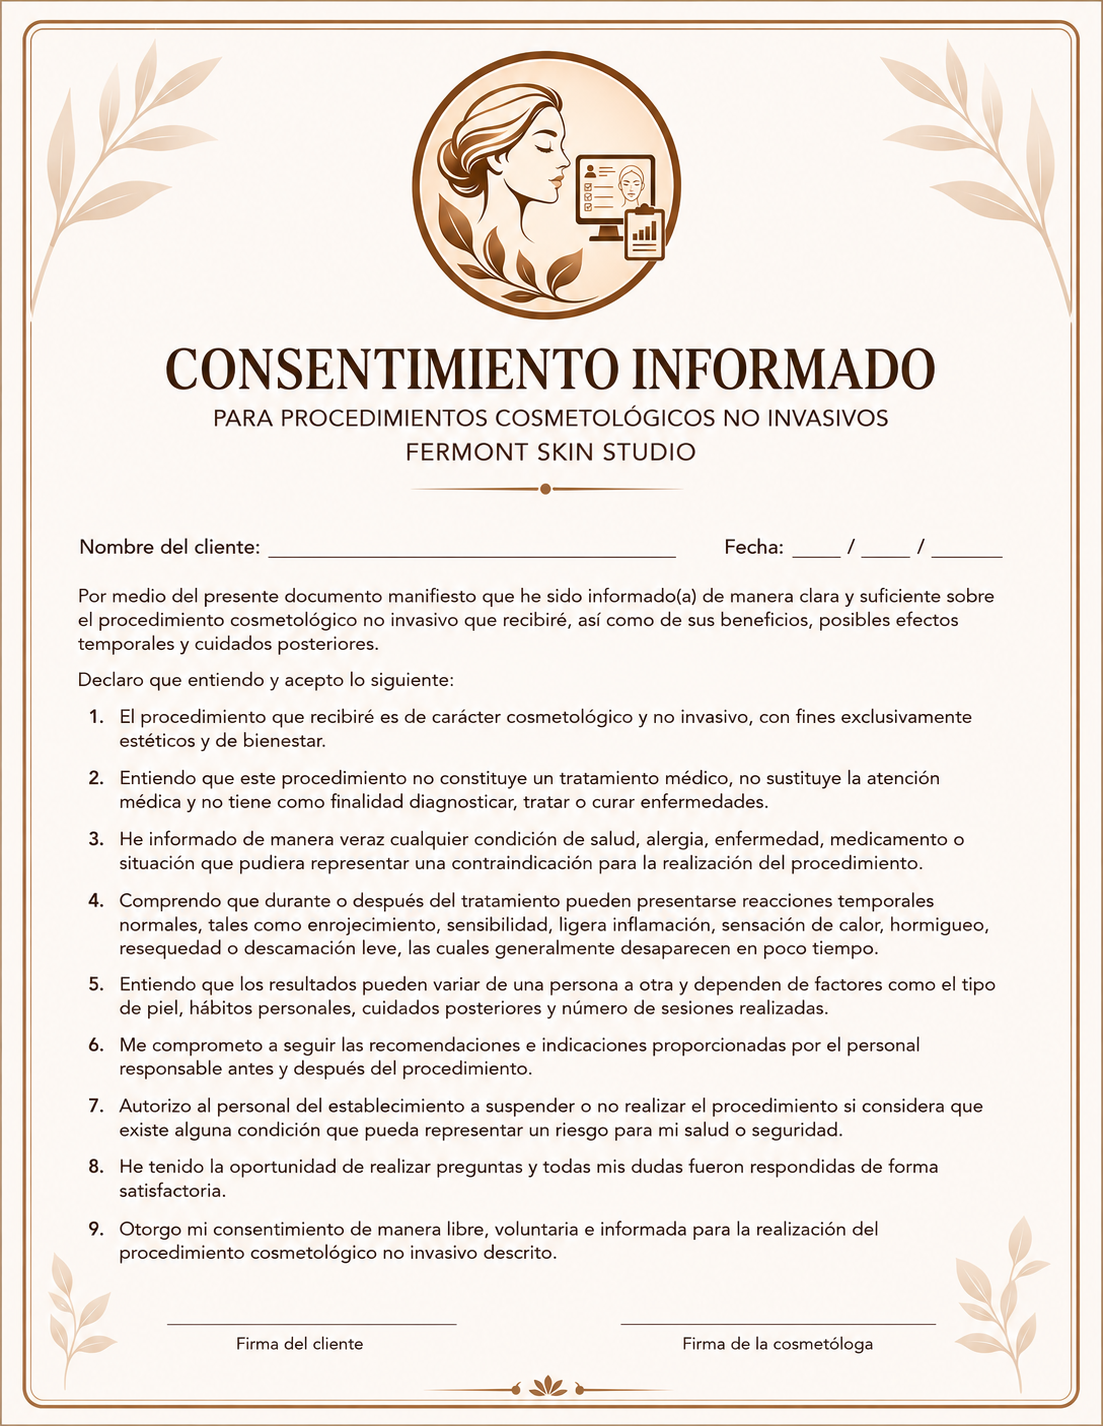
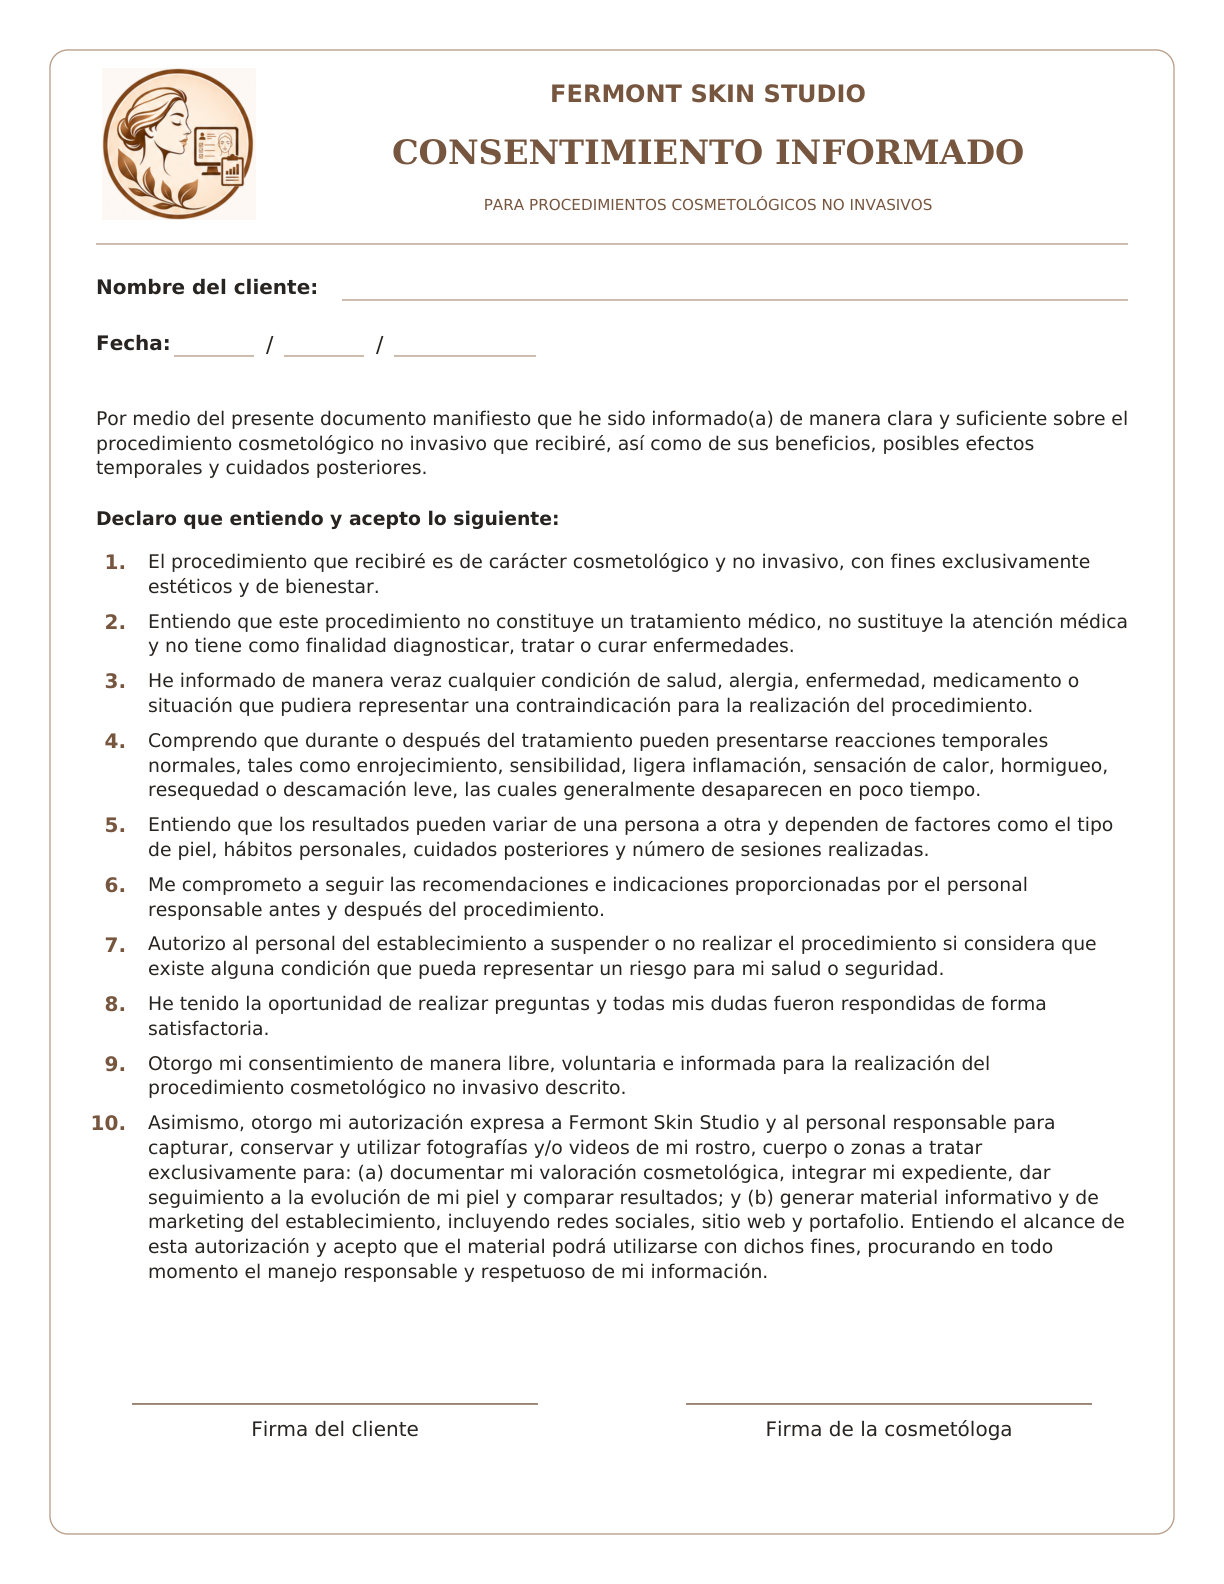
consentimiento 2

Changed region(s): [[0.0, 0.0, 1.0, 1.0]]

diff --git a/src/publicSite/components/PreRegistrationQuestionnaire.jsx b/src/publicSite/components/PreRegistrationQuestionnaire.jsx
@@ -1,5 +1,10 @@
 import { useEffect, useMemo, useRef, useState } from 'react'
 import {
+  CONSENT_CLAUSES,
+  CONSENT_DECLARATION,
+  CONSENT_INTRO,
+} from '../../constants/consent.js'
+import {
   STEP_EIGHT_OPTIONS,
   STEP_FOUR_OPTIONS,
   STEP_SEVEN_OPTIONS,
@@ -1190,50 +1195,10 @@ function PreRegistrationQuestionnaire({ client, error, isSaving, onCancel, onSub
           </div>
         </dl>
 
-        <p>
-          Por medio del presente documento manifiesto que he sido informado(a) de manera clara y suficiente
-          sobre el procedimiento cosmetológico no invasivo que recibiré, así como de sus beneficios, posibles
-          efectos temporales y cuidados posteriores.
-        </p>
-        <p>Declaro que entiendo y acepto lo siguiente:</p>
+        <p>{CONSENT_INTRO}</p>
+        <p><strong>{CONSENT_DECLARATION}</strong></p>
         <ol>
-          <li>
-            El procedimiento que recibiré es de carácter cosmetológico y no invasivo, con fines exclusivamente
-            estéticos y de bienestar.
-          </li>
-          <li>
-            Entiendo que este procedimiento no constituye un tratamiento médico, no sustituye la atención médica
-            y no tiene como finalidad diagnosticar, tratar o curar enfermedades.
-          </li>
-          <li>
-            He informado de manera veraz cualquier condición de salud, alergia, enfermedad, medicamento o
-            situación que pudiera representar una contraindicación para la realización del procedimiento.
-          </li>
-          <li>
-            Comprendo que durante o después del tratamiento pueden presentarse reacciones temporales normales,
-            tales como enrojecimiento, sensibilidad, ligera inflamación, sensación de calor, hormigueo, resequedad
-            o descamación leve, las cuales generalmente desaparecen en poco tiempo.
-          </li>
-          <li>
-            Entiendo que los resultados pueden variar de una persona a otra y dependen de factores como el tipo
-            de piel, hábitos personales, cuidados posteriores y número de sesiones realizadas.
-          </li>
-          <li>
-            Me comprometo a seguir las recomendaciones e indicaciones proporcionadas por el personal responsable
-            antes y después del procedimiento.
-          </li>
-          <li>
-            Autorizo al personal del establecimiento a suspender o no realizar el procedimiento si considera que
-            existe alguna condición que pueda representar un riesgo para mi salud o seguridad.
-          </li>
-          <li>
-            He tenido la oportunidad de realizar preguntas y todas mis dudas fueron respondidas de forma
-            satisfactoria.
-          </li>
-          <li>
-            Otorgo mi consentimiento de manera libre, voluntaria e informada para la realización del procedimiento
-            cosmetológico no invasivo descrito.
-          </li>
+          {CONSENT_CLAUSES.map((clause) => <li key={clause}>{clause}</li>)}
         </ol>
       </div>
 

diff --git a/src/constants/consent.js b/src/constants/consent.js
@@ -1,0 +1,21 @@
+export const CONSENT_INTRO =
+  'Por medio del presente documento manifiesto que he sido informado(a) de manera clara y suficiente sobre el procedimiento cosmetológico no invasivo que recibiré, así como de sus beneficios, posibles efectos temporales y cuidados posteriores.'
+
+export const CONSENT_DECLARATION = 'Declaro que entiendo y acepto lo siguiente:'
+
+export const MEDIA_CONSENT_TEXT =
+  'Asimismo, otorgo mi autorización expresa a Fermont Skin Studio y al personal responsable para capturar, conservar y utilizar fotografías y/o videos de mi rostro, cuerpo o zonas a tratar exclusivamente para: (a) documentar mi valoración cosmetológica, integrar mi expediente, dar seguimiento a la evolución de mi piel y comparar resultados; y (b) generar material informativo y de marketing del establecimiento, incluyendo redes sociales, sitio web y portafolio. Entiendo el alcance de esta autorización y acepto que el material podrá utilizarse con dichos fines, procurando en todo momento el manejo responsable y respetuoso de mi información.'
+
+export const CONSENT_CLAUSES = [
+  'El procedimiento que recibiré es de carácter cosmetológico y no invasivo, con fines exclusivamente estéticos y de bienestar.',
+  'Entiendo que este procedimiento no constituye un tratamiento médico, no sustituye la atención médica y no tiene como finalidad diagnosticar, tratar o curar enfermedades.',
+  'He informado de manera veraz cualquier condición de salud, alergia, enfermedad, medicamento o situación que pudiera representar una contraindicación para la realización del procedimiento.',
+  'Comprendo que durante o después del tratamiento pueden presentarse reacciones temporales normales, tales como enrojecimiento, sensibilidad, ligera inflamación, sensación de calor, hormigueo, resequedad o descamación leve, las cuales generalmente desaparecen en poco tiempo.',
+  'Entiendo que los resultados pueden variar de una persona a otra y dependen de factores como el tipo de piel, hábitos personales, cuidados posteriores y número de sesiones realizadas.',
+  'Me comprometo a seguir las recomendaciones e indicaciones proporcionadas por el personal responsable antes y después del procedimiento.',
+  'Autorizo al personal del establecimiento a suspender o no realizar el procedimiento si considera que existe alguna condición que pueda representar un riesgo para mi salud o seguridad.',
+  'He tenido la oportunidad de realizar preguntas y todas mis dudas fueron respondidas de forma satisfactoria.',
+  'Otorgo mi consentimiento de manera libre, voluntaria e informada para la realización del procedimiento cosmetológico no invasivo descrito.',
+  MEDIA_CONSENT_TEXT,
+]
+

diff --git a/src/services/consentExporter.js b/src/services/consentExporter.js
@@ -1,7 +1,7 @@
 import { jsPDF } from 'jspdf'
 
-const TEMPLATE_WIDTH = 1103
-const TEMPLATE_HEIGHT = 1426
+const TEMPLATE_WIDTH = 1224
+const TEMPLATE_HEIGHT = 1584
 
 const loadImage = (source) =>
   new Promise((resolve, reject) => {
@@ -65,7 +65,12 @@ const shareOrDownloadPdf = async (pdf, fileName) => {
   pdf.save(fileName)
 }
 
-export const downloadInformedConsent = async ({ clientName, valuationDate, clientSignature, cosmetologistSignature }) => {
+export const downloadInformedConsent = async ({
+  clientName,
+  valuationDate,
+  clientSignature,
+  cosmetologistSignature,
+}) => {
   const normalizedName = String(clientName || '').trim()
   const parsedDate = parseValuationDate(valuationDate)
 
@@ -77,7 +82,7 @@ export const downloadInformedConsent = async ({ clientName, valuationDate, clien
     throw new Error('Esta valoración no tiene una fecha válida para el consentimiento.')
   }
 
-  const templateUrl = `${import.meta.env.BASE_URL}consentimiento.png`
+  const templateUrl = `${import.meta.env.BASE_URL}consentimiento.png?v=2`
   const template = await loadImage(templateUrl)
   const canvas = document.createElement('canvas')
   canvas.width = TEMPLATE_WIDTH
@@ -91,14 +96,14 @@ export const downloadInformedConsent = async ({ clientName, valuationDate, clien
   context.textAlign = 'center'
   context.textBaseline = 'alphabetic'
 
-  const nameFontSize = fitFontSize(context, normalizedName, 390, 19)
+  const nameFontSize = fitFontSize(context, normalizedName, 750, 24)
   context.font = `${nameFontSize}px Arial, sans-serif`
-  context.fillText(normalizedName, 473, 550)
+  context.fillText(normalizedName, 735, 292)
 
-  context.font = '18px Arial, sans-serif'
-  context.fillText(parsedDate.day, 817, 550)
-  context.fillText(parsedDate.month, 881, 550)
-  context.fillText(parsedDate.year, 967, 550)
+  context.font = '22px Arial, sans-serif'
+  context.fillText(parsedDate.day, 214, 350)
+  context.fillText(parsedDate.month, 324, 350)
+  context.fillText(parsedDate.year, 465, 350)
 
   const drawSignature = async (signature, x, y, width, height) => {
     if (!signature) return
@@ -115,8 +120,8 @@ export const downloadInformedConsent = async ({ clientName, valuationDate, clien
     )
   }
 
-  await drawSignature(clientSignature, 166, 1235, 292, 84)
-  await drawSignature(cosmetologistSignature, 620, 1235, 316, 84)
+  await drawSignature(clientSignature, 132, 1295, 406, 105)
+  await drawSignature(cosmetologistSignature, 686, 1295, 406, 105)
 
   const pdf = new jsPDF({
     orientation: 'portrait',
